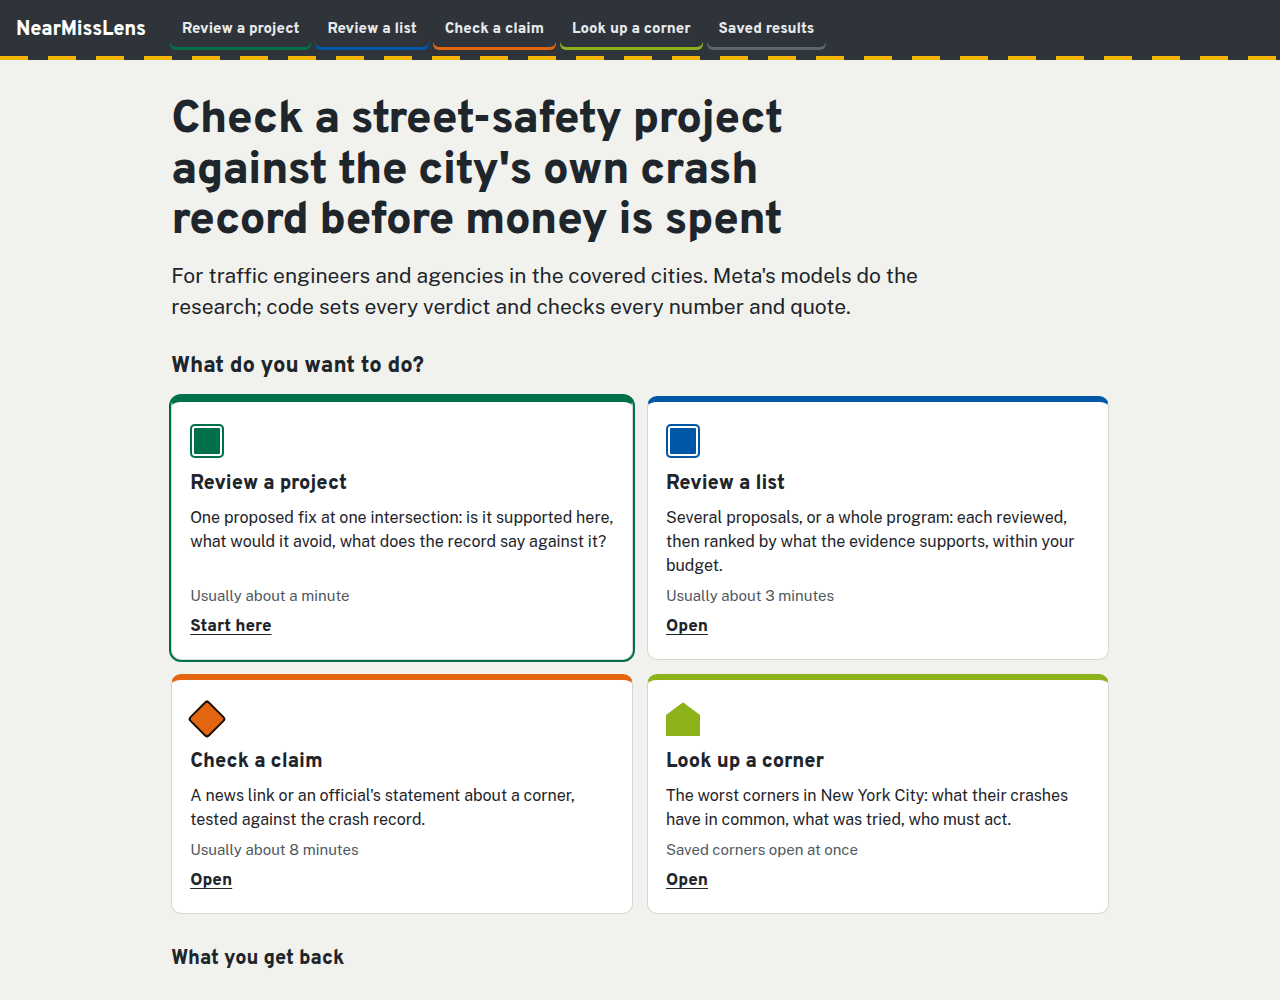
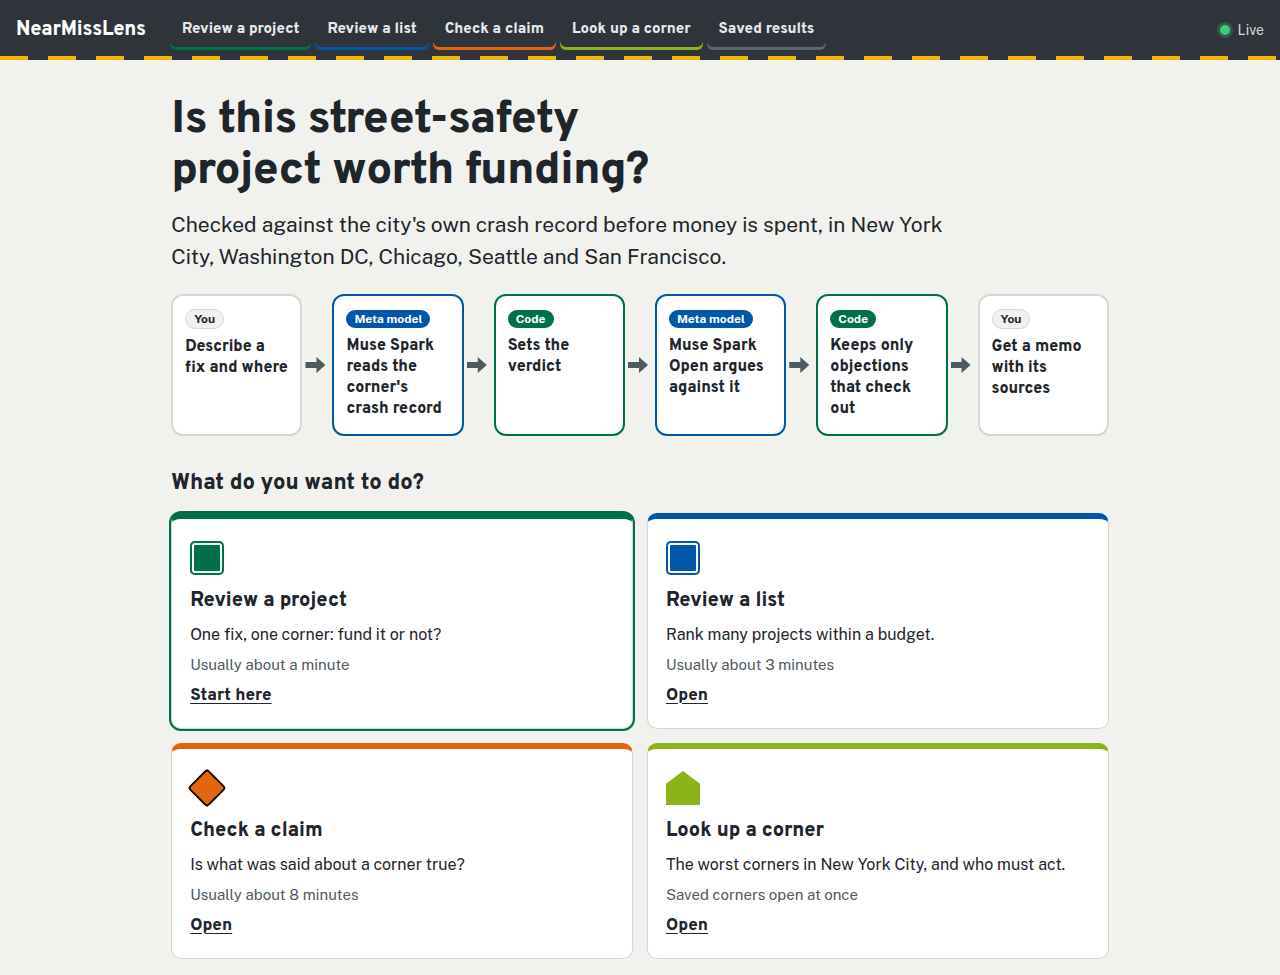
README for judges: why it matters, how it uses Meta's models, run steps with and without a key, what was built during the event and what was not; current start screenshot; LICENSES lists the map tiles, Photon, pypdf and Public Sans

diff --git a/README.md b/README.md
@@ -1,7 +1,7 @@
 # NearMissLens
 
 [![tests](https://github.com/Morningstaaar36/nearmisslens/actions/workflows/tests.yml/badge.svg)](https://github.com/Morningstaaar36/nearmisslens/actions/workflows/tests.yml)
-version 1.0.1 · [changelog](CHANGELOG.md)
+version 1.0.1 · [changelog](CHANGELOG.md) · Apache-2.0
 
 **Check a street-safety project against the city's own crash record before the money is spent.**
 
@@ -9,13 +9,24 @@ version 1.0.1 · [changelog](CHANGELOG.md)
 [Saved results](https://morningstaaar36.github.io/nearmisslens/) · [Test it yourself](TESTING.md) ·
 [The evidence in full](EVIDENCE.md)
 
-![The start screen: four tasks, each in the colour of a road-sign family, with how long each usually takes](docs/img/start.png)
+![The start screen: what you do, what Meta's models do and what code does, then four tasks, each in the colour of a road-sign family](docs/img/start.png)
 
-A traffic engineer or an agency describes what it plans to build. NearMissLens looks up the corner's police crash
-records, the city's own past safety programs, the federal studies behind each fix and the owner of each road, and
-returns a memo with a verdict and its sources. **Meta's models do the research; code sets the verdict**, and nothing
-is shown until code has checked every number against the record and every quote against its page. (Those checks catch
-wrong numbers and misquotes, not every wrong conclusion: see [Limits](#limits).)
+## Why it matters
+
+Cities choose intersection fixes (new signals, leading pedestrian intervals, beacons) from lists that are often drawn
+up before anyone has checked that corner's record. NearMissLens makes that check for one proposal in about 80 seconds,
+for about 8 cents of model calls (the averages of the registered run, T28). It answers four questions: are the crashes
+there the kind this fix prevents, is the fix already installed, did the city's own past program of this fix work, and
+would another fix avoid more?
+
+Two things it found in real proposals:
+- A neighborhood commission in Washington DC asked for a leading pedestrian interval at 22nd St & L St NW. DC's own
+  signal records show one is already installed.
+- NYC DOT proposed intervals at three Lafayette Street corners. New York's signal dataset shows one installed at
+  Prince Street since October 2024.
+
+It is for traffic engineers and agencies weighing a project, for community boards and advocates asking for one, and
+for reporters checking what an official said about a corner.
 
 ## What you can do with it
 
@@ -26,57 +37,20 @@ wrong numbers and misquotes, not every wrong conclusion: see [Limits](#limits).)
 | **Check a claim** | a news link or an official's statement about a corner | which numbers hold, which differ, and which the record cannot test, with every quote checked on its page | about 8 minutes |
 | **Look up a corner** | an intersection | what its crashes have in common, what the city already tried, which fix the record supports, who must act, what has been published about it, and a drafted request letter | at once for saved corners |
 
-![Review a list, San Francisco: Muse Spark found four SFMTA project pages on the web; each passage was found on its page word for word, and 29 planned projects were read off them to tick and review](docs/img/find.png)
+![A saved review: the DC commission's request at 22nd St & L St NW. Code says "reconsider" because DC's own signal records show the interval is already installed; Muse Spark Open's four objections are shown with the record field each one rests on, each with the memo's answer](docs/img/review_memo.png)
 
-It covers **New York, Washington DC, Chicago, Seattle and San Francisco**, the cities that publish geocoded crash
-records. Cities are data, not code: each is an entry in [`registry.json`](nearmisslens/data/registry.json), and
-`nml cities` lists what each one has. What each city publishes decides what the tool can say there:
+## How it uses Meta's models
 
-| City | Crash records | Past safety programs | Road owners | Saved corners to browse |
-|---|---|---|---|---|
-| New York City | yes, with per-vehicle detail | yes | from the state's road inventory | 303 |
-| Washington DC | yes | yes | presumed city; state routes flagged to confirm | 50 |
-| Seattle | yes | yes | presumed city; state routes flagged to confirm | 50 |
-| San Francisco | yes | yes | presumed city; state routes flagged to confirm | 50 |
-| Chicago | yes | not published | presumed city; state routes flagged to confirm | none yet (reviews and checks work) |
+**Meta's models do the research; code sets the verdict.** Nothing is shown until code has checked every number against
+the record and every quote against its page. Those checks catch wrong numbers and misquotes, not every wrong
+conclusion (see [Limits](#limits)).
 
-![A saved memo: a neighborhood commission asked for a leading pedestrian interval at 22nd St & L St NW in Washington. Code says "reconsider" because DC's own signal records show one is already installed; each finding cites its receipt, and the red team's objections are answered](docs/img/review_memo.png)
-
-## Results at a glance
-
-Every test was registered before it ran ([`validation/BENCH_PREREG.md`](validation/BENCH_PREREG.md)); failures are
-reported next to successes. T-numbers are those registrations' ids. "Receipts" (R1, R2, …) are the saved tool results a
-finding cites; the "desk" is Muse Spark's tool loop; a case is "published" only when it passes the finish gate. The full story, with what each review of the results still found wrong, is in
-[EVIDENCE.md](EVIDENCE.md).
-
-| What was tested | Result | Rule |
+| Model | Its job | What checks it |
 |---|---|---|
-| The desk on 36 fresh real cases from the live web (T21c–T21e) | 33 published; **72 of 72** quotes found on the page they cite; $0.063–$0.126 a case | met |
-| Muse Spark alone, same inputs, same web search (T24) | **26 of 73** of its quotes from readable pages are not on those pages | baseline |
-| `nml check` on 12 inputs nobody chose (T25) | 10 of 10 real inputs published, 26 of 26 quotes verified, both controls caught | met |
-| Review a project: 7 real proposals from 5 cities' plans (T26–T28) | 7 of 7 memos, all on the proposed corner; **32 objections** survived the fact check (13 before the rework) | met |
-| Review a list: 3 real agency programs (T29b) | 21 of 23 reviewed, each on its own corner; the ranking rebuilt exactly; $0.079 a proposal | met |
-| Read an agency's web page into projects (T30c) | **16 of 16** hand-collected projects found, 55 kept; $0.063 a page | met |
-| The causal gate on New York's leading pedestrian intervals (T11) | **−17%** pedestrian injury crashes (95% interval −22% to −11%); a naive before/after says −24% | passed |
-| A corner's own crash count against an independent count (T32, after T31b's lessons) | agrees at 7 of 10 fresh corners (3 in T31b); mean error 3.9 crashes, against 40.5 when every crash within 100 m is counted | **not met** (8 needed) |
-| A frozen patch against a held-out attacker (T18) | cut accepted false claims by 46%, short of the 50% registered | **not met** |
-
-**A new real case, run live on 4 November 2026** ([write-up and proof](validation/case_studies/2026-11-04_nyc_lafayette/)):
-NYC DOT proposed leading pedestrian intervals at three Lafayette Street corners. The site found that the city's own
-records show one already installed at Prince Street since 2024 (confirmed against NYC's dataset), said "compare first" at
-Great Jones Street, and "proceed after a site check" at Houston Street. The run also found six faults, including a 2023
-death the New York mapping missed; all are fixed.
-Three more cases the same day: SDOT's new signal at Dexter Ave N & John St, Seattle
-([write-up](validation/case_studies/2026-11-04_seattle_dexter_john/)); the all-way stop Chicago's council ordered
-at W 41st St & S Albany Ave ([write-up](validation/case_studies/2026-11-04_chicago_41st_albany/)), where the record
-holds one injury crash in five years, as the city's data confirms by address; and SFMTA's planned signal projects,
-found on the web by Muse Spark ([write-up](validation/case_studies/2026-11-04_sf_signal_contracts/)). Each write-up
-lists the faults the run exposed and the commit that fixed each one, with a test.
-
-Independent testers saw only [TESTING.md](TESTING.md); their reports are kept as written in
-[`validation/independent/`](validation/independent/), with what we changed after each.
-
-## How it works
+| **Muse Spark 1.3** (Meta Model API) | runs the desk: searches the web, reads pages, investigates the corner, writes the memo; finds an agency's project pages and reads them into project lists | the finish gate: every number against its receipt, every quote against its page |
+| **Muse Spark Open** (Baseten) | the red team's pre-mortem against the verdict; request letters; answers about a corner | each objection must name a receipt field and value; every number in a letter is checked |
+| **Muse Voice Transcribe** | a spoken proposal from the site (`nml review --audio`) | the transcript goes through the same review |
+| **SAM 3.1** | counts people and cars in Seattle's traffic-camera frames (Corner Watch; command line only, `nml cameras`) | agreement between image and video modes |
 
 ```
 a city      ──▶ Muse Spark 1.3 + web_search finds the agency's project pages ─▶ code opens each page: passage on it word for word
@@ -92,40 +66,98 @@ your input ──▶ Muse Spark 1.3 (Meta Model API) works the case with checked
              ──▶ the memo must answer every kept objection   ─▶ finish gate: numbers, quotes, wording
 ```
 
-| Model | Its job | What checks it |
-|---|---|---|
-| **Muse Spark 1.3** | runs the desk: searches, reads, investigates, writes the memo; reads agency pages into project lists | the finish gate: every number against its receipt, every quote against its page |
-| **Muse Spark Open** (Baseten) | the red team's pre-mortem; request letters; answers about a corner | each objection must name a receipt field and value; every number in a letter is checked |
-| **Muse Voice Transcribe** | a spoken proposal from the site (`nml review --audio`) | the transcript goes through the same review |
-| **SAM 3.1** | counts people and cars in Seattle's traffic-camera frames (Corner Watch; command line only, `nml cameras`) | agreement between image and video modes |
-
 The causal gate decides whether a city program reduced crashes. It is a comparison-group before/after with a
 placebo date, and neither the model nor an engineer can override it. It is described in [EVIDENCE.md](EVIDENCE.md#the-causal-gate)
 and [`docs/METHOD.md`](docs/METHOD.md).
 
+## Cities
+
+It covers **New York, Washington DC, Chicago, Seattle and San Francisco**, the cities that publish geocoded crash
+records. Cities are data, not code: each is an entry in [`registry.json`](nearmisslens/data/registry.json), and
+`nml cities` lists what each one has. What a city publishes decides what the tool can say there:
+
+| City | Crash records | Past safety programs | Road owners | Saved corners to browse |
+|---|---|---|---|---|
+| New York City | yes, with per-vehicle detail | yes | from the state's road inventory | 303 |
+| Washington DC | yes | yes | presumed city; state routes flagged to confirm | 50 |
+| Seattle | yes | yes | presumed city; state routes flagged to confirm | 50 |
+| San Francisco | yes | yes | presumed city; state routes flagged to confirm | 50 |
+| Chicago | yes | not published | presumed city; state routes flagged to confirm | none yet (reviews and checks work) |
+
+![Review a list, San Francisco: Muse Spark found four SFMTA project pages on the web; each passage was found on its page word for word, and 29 planned projects were read off them to tick and review](docs/img/find.png)
+
+## Results at a glance
+
+Every test was registered before it ran ([`validation/BENCH_PREREG.md`](validation/BENCH_PREREG.md)), and failures are
+reported next to successes. The terms used below:
+
+- **T-numbers** (T21c, T32, …) are the ids of those registrations, each with the rule it had to meet.
+- **The desk** is Muse Spark's tool loop that works a case.
+- **Receipts** (R1, R2, …) are the saved tool results a finding cites.
+- **The finish gate** is the code check a case must pass; only then is it **published**.
+
+| What was tested | Result | Rule |
+|---|---|---|
+| The desk on 36 fresh real cases from the live web (T21c–T21e) | 33 published; **72 of 72** quotes found on the page they cite; $0.063–$0.126 a case | met |
+| Muse Spark alone, same inputs, same web search (T24) | **26 of 73** of its quotes from readable pages are not on those pages | baseline |
+| `nml check` on 12 inputs nobody chose (T25) | 10 of 10 real inputs published, 26 of 26 quotes verified, both controls caught | met |
+| Review a project: 7 real proposals from 5 cities' plans (T26–T28) | 7 of 7 memos, all on the proposed corner; **32 objections** survived the fact check (13 before the rework) | met |
+| Review a list: 3 real agency programs (T29b) | 21 of 23 reviewed, each on its own corner; the ranking rebuilt exactly; $0.079 a proposal | met |
+| Read an agency's web page into projects (T30c) | **16 of 16** hand-collected projects found, 55 kept; $0.063 a page | met |
+| The causal gate on New York's leading pedestrian intervals (T11) | **−17%** pedestrian injury crashes (95% interval −22% to −11%); a naive before/after says −24% | passed |
+| A corner's own crash count against an independent count (T32, after T31b's lessons) | agrees at 7 of 10 fresh corners (3 in T31b); mean error 3.9 crashes, against 40.5 when every crash within 100 m is counted | **not met** (8 needed) |
+| A frozen patch against a held-out attacker (T18) | cut accepted false claims by 46%, short of the 50% registered | **not met** |
+
+The full story, with what each review of the results still found wrong, is in [EVIDENCE.md](EVIDENCE.md).
+
+**Real cases run live on 4 November 2026**, each written up with its proof and checked by hand against the city's own
+data. Each write-up lists the faults the run exposed and the commit that fixed each one, with a test.
+- [NYC DOT's leading pedestrian intervals on Lafayette Street](validation/case_studies/2026-11-04_nyc_lafayette/): one is
+  already installed at Prince Street (confirmed against NYC's dataset); "compare first" at Great Jones Street;
+  "proceed after a site check" at Houston Street. The run also exposed a 2023 death that the New York mapping missed.
+- [SDOT's new signal at Dexter Ave N & John St, Seattle](validation/case_studies/2026-11-04_seattle_dexter_john/).
+- [The all-way stop Chicago's council ordered at W 41st St & S Albany Ave](validation/case_studies/2026-11-04_chicago_41st_albany/):
+  the record holds one injury crash in five years, as the city's data confirms by address.
+- [SFMTA's planned signal projects](validation/case_studies/2026-11-04_sf_signal_contracts/), found on the web by Muse Spark.
+
+**Independent testing.** Independent agents (separate AI sessions that had seen only [TESTING.md](TESTING.md)) tested
+and audited the product. Their reports are kept as written in [`validation/independent/`](validation/independent/),
+with what we changed after each.
+
 ## Run it yourself
 
+No key needed (Python 3.12 and [uv](https://docs.astral.sh/uv/)):
+
 ```bash
-uv sync                                                        # Python 3.12
-uv run nml --replay engineer "Bruckner Boulevard & Hunts Point Avenue, Bronx, NY"   # no key, no network: a corner's case
-uv run nml app                                                 # no key: the page on http://127.0.0.1:8770 (--port N), saved results open
-uv run pytest -q                                               # no key: the test suite
-uv run nml review "Leading pedestrian intervals at Street A & Street B, about \$15,000" --city CITY   # needs MODEL_API_KEY
-uv run nml find CITY                                           # the agency's planned projects, found on the web
-uv run nml portfolio --from-url URL --city CITY --budget-total 500000                              # a whole program
+git clone https://github.com/Morningstaaar36/nearmisslens && cd nearmisslens
+uv sync
+uv run nml --replay engineer "Bruckner Boulevard & Hunts Point Avenue, Bronx, NY"   # a corner's case, offline
+uv run nml app                                                 # the page on http://127.0.0.1:8770 (--port N); saved results open
+uv run pytest -q                                               # the test suite
 ```
 
-The first command computes the corner's case from the city's raw police crash records, not from a saved answer: the
+The first command computes the corner's case from the city's raw police crash records, not from a saved answer. The
 public-data responses it reads ship in [`replay/`](replay/) (0.6 MB, built by `nml --replay pack-cache --starter`), so it
-runs on a fresh clone. Run without `--replay` to fetch any other corner's records live (free, needs network).
-Keys go in `.env` (`MODEL_API_KEY` for the Meta Model API, `BASETEN_API_KEY` for Muse Spark Open). Every paid call is
-cached and logged; `--replay` serves cached answers only, with records pinned to `validation/ASOF`.
-[TESTING.md](TESTING.md) walks a tester through each task and what counts as a failure.
+runs on a fresh clone. Without `--replay`, any other corner's records are fetched live (free, needs network).
+
+With a Meta Model API key (paid calls, each cached and logged):
+
+```bash
+echo "MODEL_API_KEY=..." > .env && set -a && . ./.env && set +a   # BASETEN_API_KEY too, for Muse Spark Open
+uv run nml review "Leading pedestrian intervals at Broadway & W 96th St, about \$15,000" --city nyc
+uv run nml find sf                                             # the agency's planned projects, found on the web
+uv run nml portfolio --from-url URL --city sf --budget-total 500000   # a whole program from the agency's page
+uv run nml check "https://a-news-site.example/story" --city dc        # what a news story says, against the record
+```
+
+`--replay` serves cached answers only, with records pinned to `validation/ASOF`. [TESTING.md](TESTING.md) walks a
+tester through each task and what counts as a failure.
 
 ## Running it for others
 
 The live page runs on Modal (`nearmisslens/modal_web.py`) as one small container that scales to zero when idle:
-- a **daily model budget** shared by every visitor (the page shows what is left), and a request cap for new corners;
+- a **daily model budget** shared by every visitor (the page shows what is left and when it resets), and a request cap
+  for new corners;
 - a **per-visitor limit** of 10 paid jobs an hour, kept as a salted hash in memory only, never written;
 - `GET /health` for an uptime monitor, security headers, and CORS only for the GitHub Pages copy;
 - no account, cookies, analytics or request log ([PRIVACY.md](PRIVACY.md));
@@ -145,15 +177,17 @@ The live page runs on Modal (`nearmisslens/modal_web.py`) as one small container
 | `nearmisslens/data/registry.json`, `fhwa_psc.json` | cities as data; the federal fixes and the limits of each study |
 | `validation/` | registered rules, results, independent reports, the proposals test set, the live case studies |
 | `replay/` | the public-data answers the no-key example reads, so it runs on a fresh clone |
-| `tests/` | the test suite, including ones that tie every number above to its result file and fail on any place name in the generic code |
+| `docs/` | the static copy of the page on GitHub Pages, its saved results, and the method |
+| `tests/` | the test suite, including ones that tie every number above to its result file and fail on any place name in the product code |
 | other modules | research that did not make the product (drone-video tracking, aerial-photo reading, mechanism mining); kept because [BENCH.md](validation/BENCH.md) reports them |
 
 ## Limits
 
 - **A screening aid, not a design.** Estimates use the Highway Safety Manual's simple method, one fix at a time, and a
   qualified engineer must review each one.
-- **The gates check numbers, quotes and wording, not whether a finding is the right one to make.** An independent audit of 12 published desk
-  cases found an error in 7; the causes are fixed, and no person has audited the cases yet.
+- **The gates check numbers, quotes and wording, not whether a finding is the right one to make.** An independent
+  agent's audit of 12 published desk cases found an error in 7. In 4 of them, the letter said no one was killed where
+  people had died. The causes are fixed; no person has audited the cases yet.
 - **Whose crashes a corner's counts are** depends on rules the open data does not settle where a city places
   crashes by a point only (T32: 7 of 10, not met).
 - **The crash record lags the news** by days to weeks; every answer states the date its records run to.
@@ -163,6 +197,12 @@ All the limits are in [EVIDENCE.md](EVIDENCE.md#limits).
 
 ## Built during the hackathon
 
-Meta Global AI Developer Hackathon, Indie track, "Push the Frontier". Solo entry by Morningstaaar36. Every line was
-written during the event (Oct 27 – Nov 4, 2026); the first commit, `dc089bf`, is dated Oct 27 (ET). Data and model
-licences are in [LICENSES.md](LICENSES.md); what is stored about whom is in [PRIVACY.md](PRIVACY.md).
+Meta Global AI Developer Hackathon, Indie track, "Push the Frontier". Solo entry by Morningstaaar36.
+
+- **Built during the event (Oct 27 – Nov 4, 2026):** all the code in this repository, the city registry, the tests,
+  the registered studies and their results, the page and the live deployment. The first commit, `dc089bf`, is dated
+  Oct 27 (ET); the history shows the rest.
+- **Not ours, and used under their terms:** Meta's models (through the Meta Model API and Baseten), the cities' open
+  data, the FHWA crash-modification studies, OpenStreetMap and the map tiles, and the open-source libraries listed in
+  `pyproject.toml`. Each is listed with its licence in [LICENSES.md](LICENSES.md); what is stored about whom is in
+  [PRIVACY.md](PRIVACY.md).

diff --git a/LICENSES.md b/LICENSES.md
@@ -22,6 +22,10 @@
 | USGS The National Map imagery | US public domain | Aerial photos where no city orthophoto is registered |
 | Mapillary street-level images | CC BY-SA 4.0 | Shown in briefs with a link to the image and the licence |
 | OpenStreetMap (Overpass, Nominatim) and map tiles | ODbL 1.0 | Street layout and route tags in briefs and the engineer; geocoding; the copilot's base map, credited on the map as "© OpenStreetMap contributors". Contact e-mail tags are removed from the published replay cache |
+| Esri World Street Map tiles (server.arcgisonline.com) | Esri terms of use; credited on the map | The copilot's base map; OpenStreetMap tiles are the fallback |
+| Photon geocoder (photon.komoot.io), OpenStreetMap data | ODbL 1.0 | Geocoding fallback when Nominatim refuses |
+| pypdf | BSD-3-Clause | Reads agency pages that are PDFs |
+| Public Sans typeface | SIL Open Font License 1.1 | Copilot body text (Google Fonts) |
 | Leaflet 1.9.4 | BSD-2-Clause | Copilot map (CDN) |
 | three.js 0.160.0 | MIT | Viewer 3D replay (CDN) |
 | marked 12.0.2 | MIT | Viewer memo rendering (CDN) |
